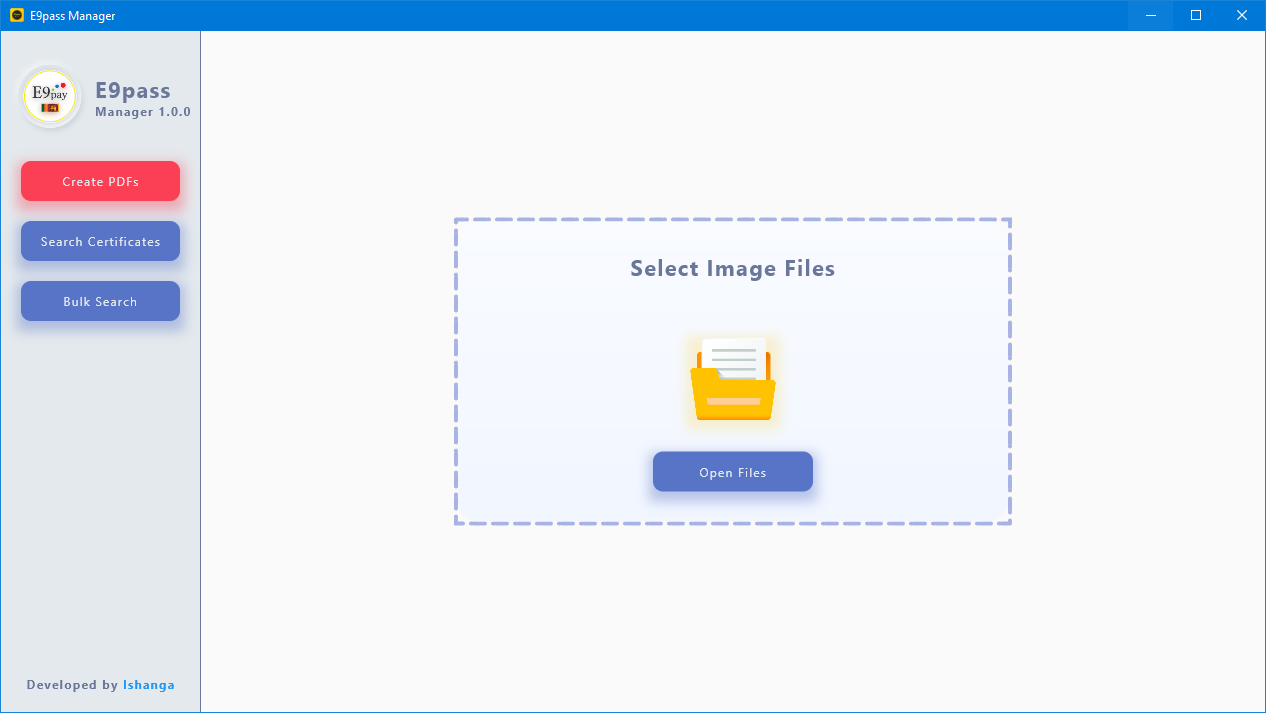
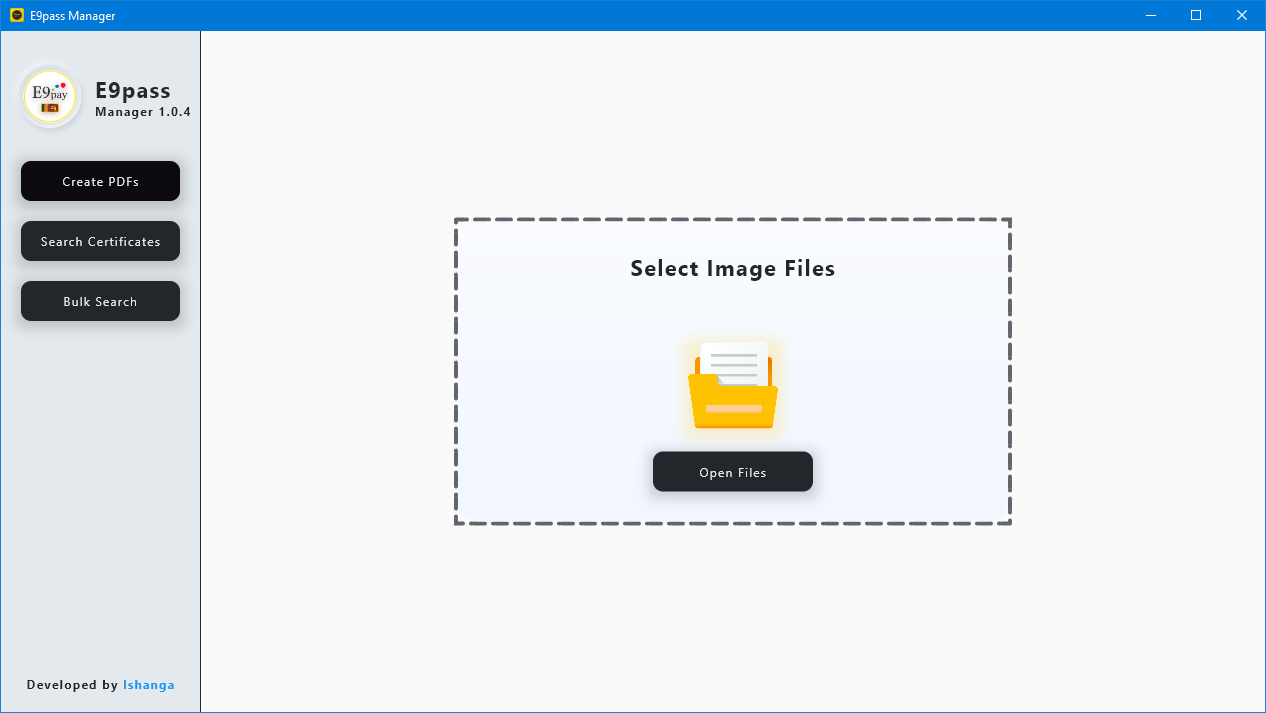
UI Redesign

diff --git a/lib/widgets/kbutton.dart b/lib/widgets/kbutton.dart
@@ -1,68 +1,20 @@
 import 'package:e9pass_manager/utils/my_colors.dart';
+import 'package:flutter/gestures.dart';
 import 'package:flutter/material.dart';
 
-class KButton extends StatelessWidget {
-  final Function onPressed;
-  final String text;
-  final bool selected;
-
-  const KButton({Key key, this.onPressed, this.text, this.selected = false }) : super(key: key);
-
-
-  @override
-  Widget build(BuildContext context) {
-    return Container(
-      width: 200,
-      height: 60,
-      padding: EdgeInsets.symmetric(horizontal: 20, vertical: 10),
-      child: Container(
-        decoration: BoxDecoration(
-          boxShadow: [
-            BoxShadow(
-              color: selected ? AppColors.selectedBtColor.withOpacity(0.4) : AppColors.btColor.withOpacity(0.4),
-              spreadRadius: 4,
-              blurRadius: 10,
-              offset: Offset(0, 6)
-            )
-          ]
-        ),
-        child: FlatButton(
-          onPressed: onPressed,
-          child: Text(
-            text,
-            style: TextStyle(
-              fontWeight: FontWeight.normal,
-              fontSize: 12,
-              letterSpacing: 1.2,
-            ),
-          ),
-          textTheme: ButtonTextTheme.primary,
-          textColor: AppColors.bgColor,
-          color:selected ? AppColors.selectedBtColor : AppColors.btColor,
-          clipBehavior: Clip.antiAlias,
-          disabledColor: AppColors.secondTextColor,
-          shape: RoundedRectangleBorder(
-            borderRadius: BorderRadius.circular(10)
-          ),
-        ),
-      ),
-    );
-  }
-}
-
-class KButtonWithAnimation extends StatefulWidget {
+class KButton extends StatefulWidget {
   final Function onPressed;
   final String text;
   final bool selected;
   final Function onPointerHover;
 
-  const KButtonWithAnimation({Key key, this.onPressed, this.text, this.selected = false, this.onPointerHover }) : super(key: key);
+  const KButton({Key key, this.onPressed, this.text, this.selected = false, this.onPointerHover}) : super(key: key);
 
   @override
-  _KButtonWithAnimationState createState() => _KButtonWithAnimationState();
+  _KButtonState createState() => _KButtonState();
 }
 
-class _KButtonWithAnimationState extends State<KButtonWithAnimation> {
+class _KButtonState extends State<KButton> {
   bool selected = false;
   @override
   Widget build(BuildContext context) {
@@ -72,13 +24,17 @@ class _KButtonWithAnimationState extends State<KButtonWithAnimation> {
       padding: EdgeInsets.symmetric(horizontal: 20, vertical: 10),
       child: MouseRegion(
         onEnter: (event) {
-          widget.onPointerHover(true);
+          if (widget.onPointerHover != null) {
+            widget.onPointerHover(true);
+          }
           setState(() {
             selected = true;
           });
         },
         onExit: (event) {
-          widget.onPointerHover(false);
+          if (widget.onPointerHover != null) {
+            widget.onPointerHover(false);
+          }
           setState(() {
             selected = false;
           });
@@ -87,10 +43,10 @@ class _KButtonWithAnimationState extends State<KButtonWithAnimation> {
           decoration: BoxDecoration(
             boxShadow: [
               BoxShadow(
-                color: selected ? AppColors.selectedBtColor.withOpacity(0.4) : AppColors.btColor.withOpacity(0.4),
+                color: selected ? AppColors.selectedBtColor.withOpacity(0.2) : AppColors.btColor.withOpacity(0.2),
                 spreadRadius: 4,
                 blurRadius: 10,
-                offset: Offset(0, 6)
+                offset: Offset(0, 3)
               )
             ]
           ),

diff --git a/lib/views/create_pdfs_view.dart b/lib/views/create_pdfs_view.dart
@@ -220,7 +220,6 @@ class _CreatePDFsState extends State<CreatePDFs> {
                           _fileService.pickedImages[index].raw = false;
                         } else {
                           _fileService.pickedImages[index].bytes = Provider.of<ImageService>(context, listen: false).getOriginal();
-                          _fileService.pickedImages[index].raw = true;
                         }
                       } catch (e) {
                         print(e);
@@ -253,7 +252,7 @@ class _CreatePDFsState extends State<CreatePDFs> {
                               borderRadius: BorderRadius.circular(10),
                               border: Border.all(
                                 width: 2,
-                                color: _fileService.pickedImages[index].raw ? Color(0xff6e5ced) : Colors.red
+                                color: _fileService.pickedImages[index].raw ? AppColors.secondTextColor : Colors.red
                               )
                             ),
                             child: ClipRRect(

diff --git a/lib/utils/my_colors.dart b/lib/utils/my_colors.dart
@@ -3,10 +3,10 @@ import 'package:flutter/material.dart';
 
 class AppColors {
   static Color bgColor = Color(0xFFE4E9ED);
-  static Color btColor = Color(0xFF5874C6);
-  static Color selectedBtColor = Color(0xFFFB4055);
-  static Color textColor = Color(0xFF69779B);
-  static Color secondTextColor = Color(0xFFA8B3E3);
+  static Color btColor = Color(0xFF22272B);
+  static Color selectedBtColor = Color(0xFF0C0910);
+  static Color textColor = Color(0xFF22272B);
+  static Color secondTextColor = Color(0xFF63656C);
   static LinearGradient linearGradient = LinearGradient(
     colors: [
       Color(0xFFF9FBFF),

diff --git a/lib/widgets/drower_button.dart b/lib/widgets/drower_button.dart
@@ -19,10 +19,10 @@ class DrowerButton extends StatelessWidget {
         decoration: BoxDecoration(
           boxShadow: [
             BoxShadow(
-              color: selected ? AppColors.selectedBtColor.withOpacity(0.4) : AppColors.btColor.withOpacity(0.4),
+              color: selected ? AppColors.selectedBtColor.withOpacity(0.2) : AppColors.btColor.withOpacity(0.2),
               spreadRadius: 4,
               blurRadius: 10,
-              offset: Offset(0, 6)
+              offset: Offset(0, 3)
             )
           ]
         ),

diff --git a/lib/widgets/get_folder_path_ui.dart b/lib/widgets/get_folder_path_ui.dart
@@ -84,7 +84,7 @@ class _GetFolderUIState extends State<GetFolderUI> with TickerProviderStateMixin
               SizedBox(
                 height: 20,
               ),
-              KButtonWithAnimation(
+              KButton(
                 onPressed: widget.onPressed,
                 text: 'Open Folder',
                 selected: false,

diff --git a/lib/widgets/get_files_ui.dart b/lib/widgets/get_files_ui.dart
@@ -85,7 +85,7 @@ class _GetFilesUIState extends State<GetFilesUI> with TickerProviderStateMixin {
               SizedBox(
                 height: 20,
               ),
-              KButtonWithAnimation(
+              KButton(
                 onPressed: widget.onPressed,
                 text: 'Open Files',
                 selected: false,

diff --git a/lib/widgets/open_file_ui.dart b/lib/widgets/open_file_ui.dart
@@ -84,7 +84,7 @@ class _OpenFileUIState extends State<OpenFileUI> with TickerProviderStateMixin {
               SizedBox(
                 height: 20,
               ),
-              KButtonWithAnimation(
+              KButton(
                 onPressed: widget.onPressed,
                 text: 'Open File',
                 selected: false,
